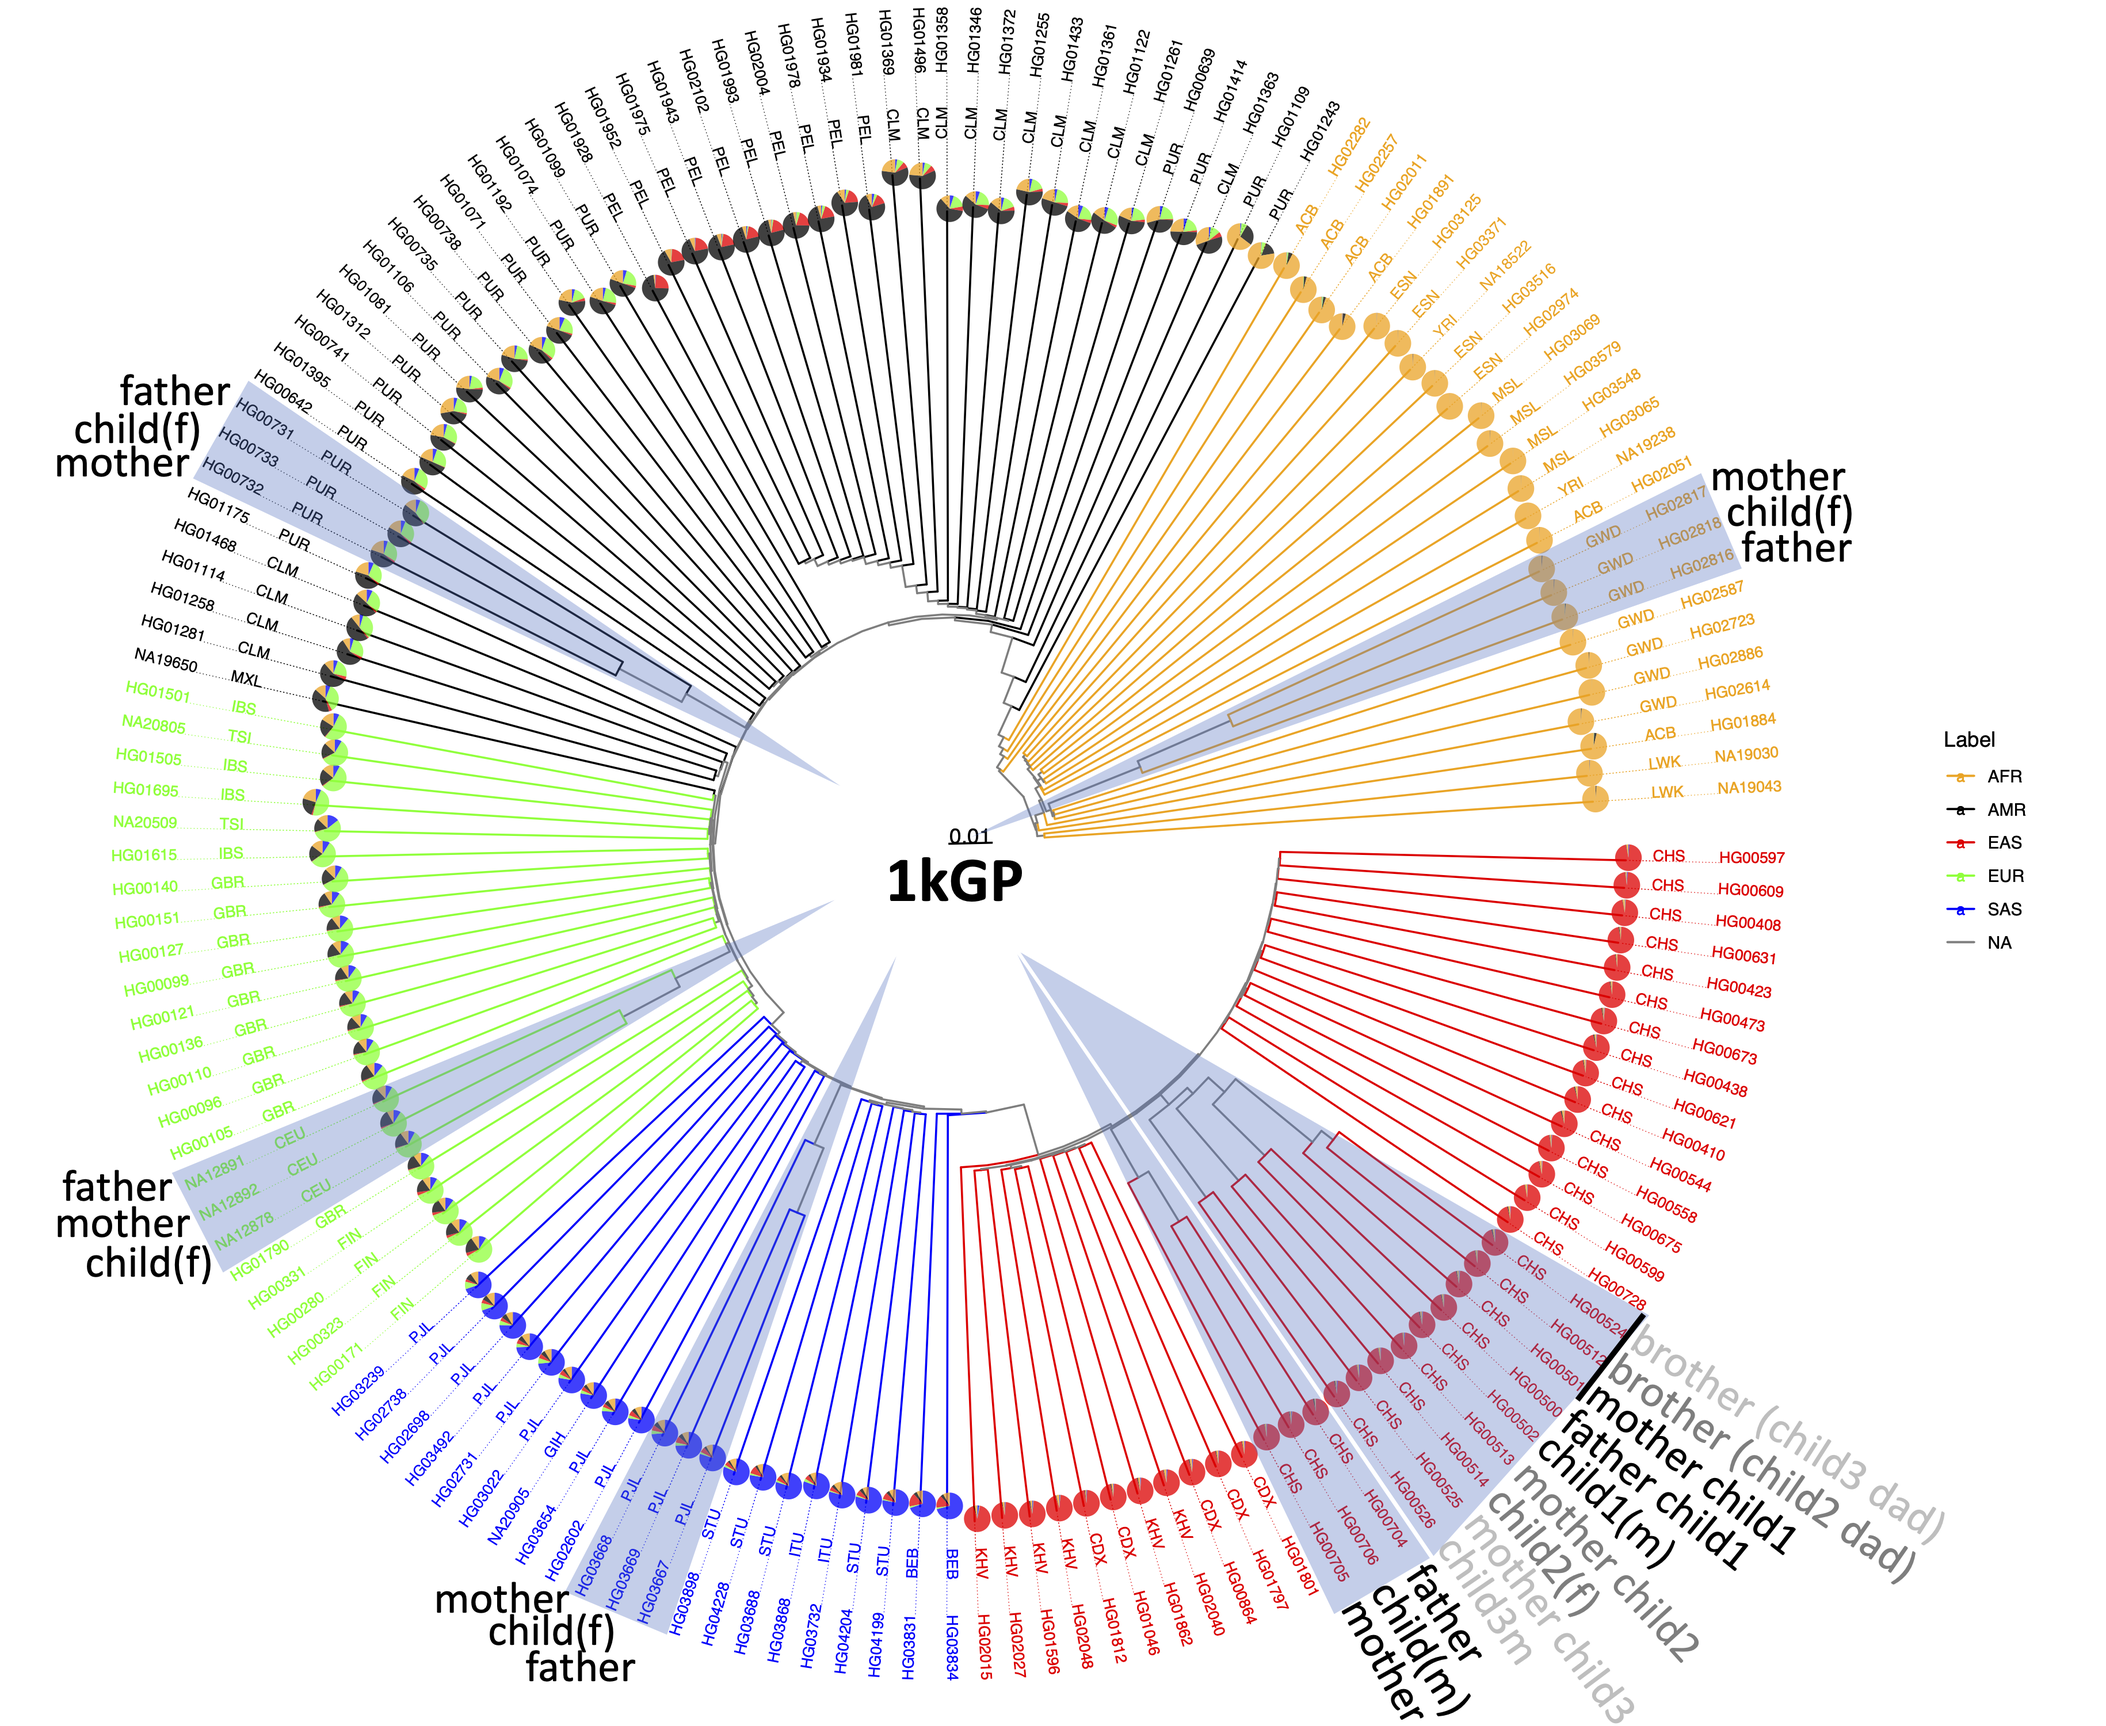
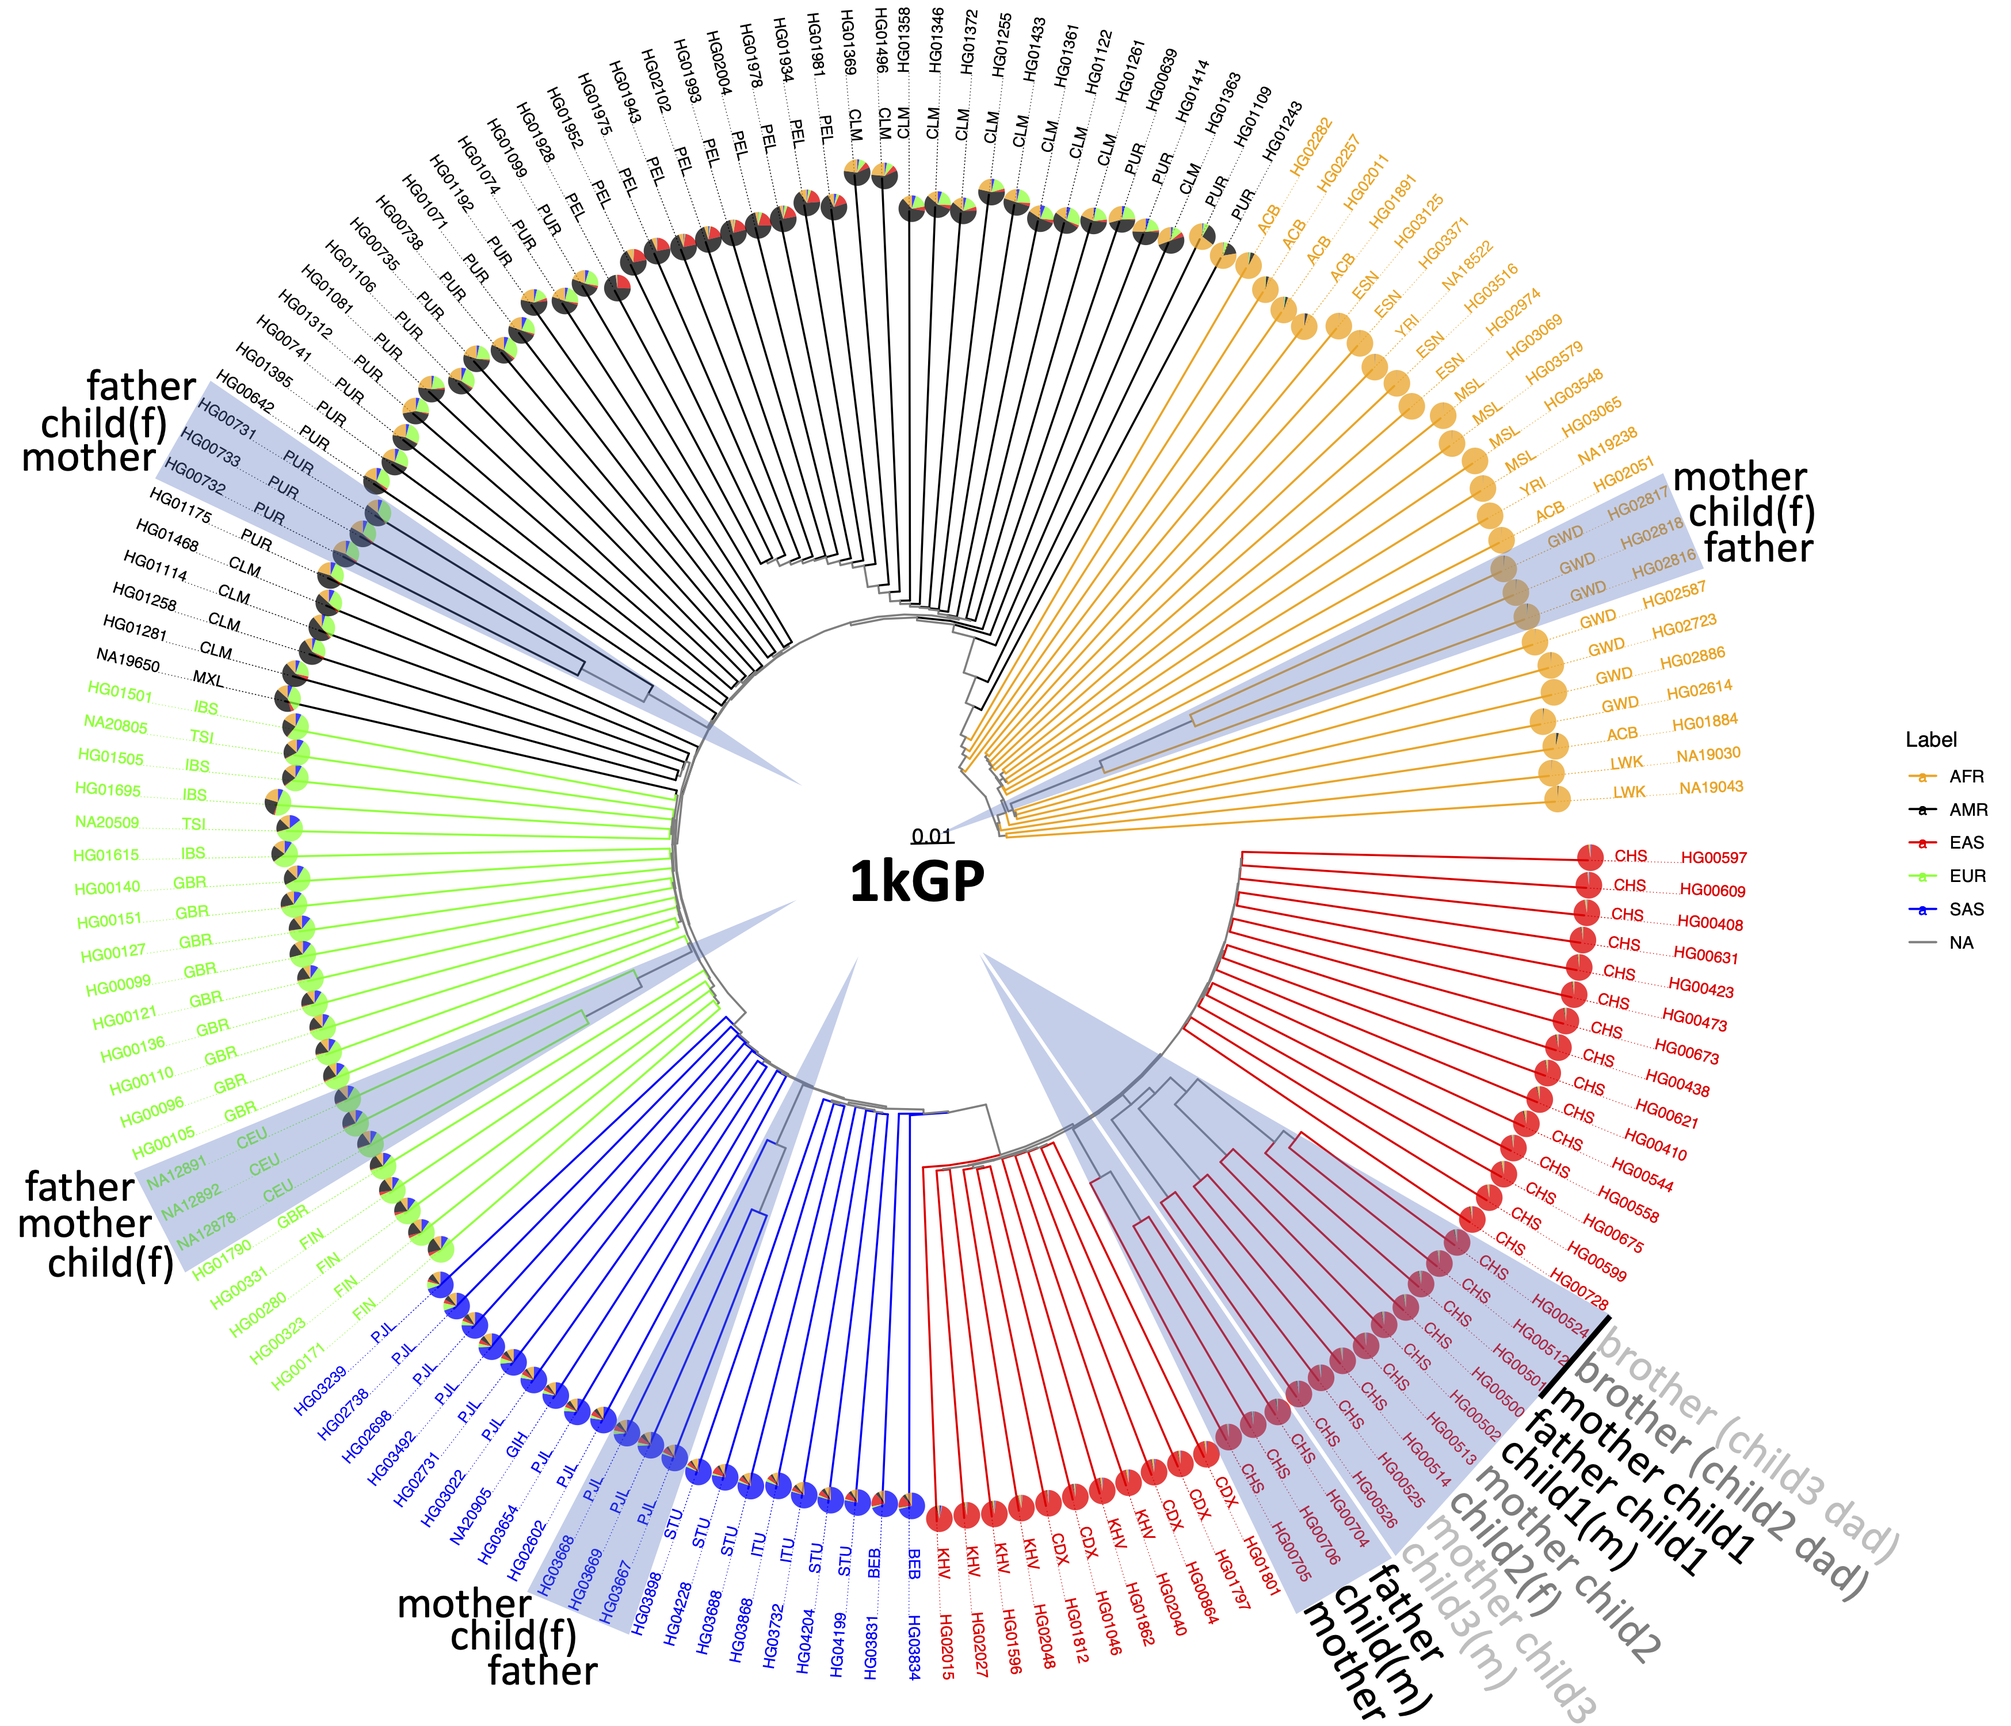
update example figure

Changed region(s): [[0.0, 0.0, 0.9356, 1.0], [0.9356, 0.465, 0.998, 0.558], [0.9356, 0.403, 0.9668, 0.434]]

diff --git a/README.md b/README.md
@@ -135,7 +135,7 @@ Note: For more advanced users, and for ancestry predictions on organisms other t
 
 
 ![Phylogenetic analysis of ntRoot ancestry-discriminant SNVs from a 1kGP sample set (n=153)](https://github.com/bcgsc/ntRoot/blob/main/ntroot_family_siblings.png)
-Neighbor joining phylogenetic analysis of ntRoot ancestry-discriminant SNVs for 153, 1000 Genomes Project (1kGP) individuals from 5 global regions (EAS=East Asia, EUR=Europe, SAS=South Asia, AFR=Africa, AMR=America). Branches are colored by the ground truth labels from 1kGP, with the pie charts as each leaf indicating the ntRoot local ancestry inference (LAI) estimated composition for each individual. Highlighted sections show family trios (Mother-Father-Child), with a more complexed family structure shown for 3 EAS siblings (Sister with 2 brothers). The 1kGP accessions are shown on the outer ring with the 1kGP sub-population labels on the inner ring. This figure is for illustrative purposes, to show possible applications of ntRoot, and illustrate its robust LAI.
+Neighbor joining phylogenetic analysis of ntRoot ancestry-discriminant SNVs for 153, 1000 Genomes Project (1kGP) individuals from 5 global regions (EAS=East Asia, EUR=Europe, SAS=South Asia, AFR=Africa, AMR=America). Branches are colored by the 1kGP super-population labels, with the pie charts as each leaf indicating the ntRoot-estimated local ancestry inference (LAI) composition for each individual. Highlighted sections show family trios (Mother-Father-Child), with a more complexed family structure shown for 3 EAS siblings (sister with 2 brothers). The 1kGP accessions are shown on the outer ring label track with the 1kGP sub-population labels (CLM:Colombian; MXL:Mexican-American; PEL:Peruvian; PUR:Puerto Rican; ACB:African-Caribbean; ESN:Esan; GWD:Gambian; LWK:Luhya; MSL:Mende; YRI:Yoruba; CEU:CEPH (Centre d’Étude du Polymorphisme Humain – Utah); FIN:Finnish; GBR:British; IBS:Spanish; TSI:Tuscan; BEB:Bengali; ITU:Indian; PJL:Punjabi; STU:Sri Lankan; CDX:Dai Chinese; CHS:Southern Han Chinese; KHV:Kinh Vietnamese) on the inner-most label track. This figure is for illustrative purposes, showing a possible application of ntRoot, illustrating its robust LAI.
 
 
 ## Demo <a name=demo></a>
